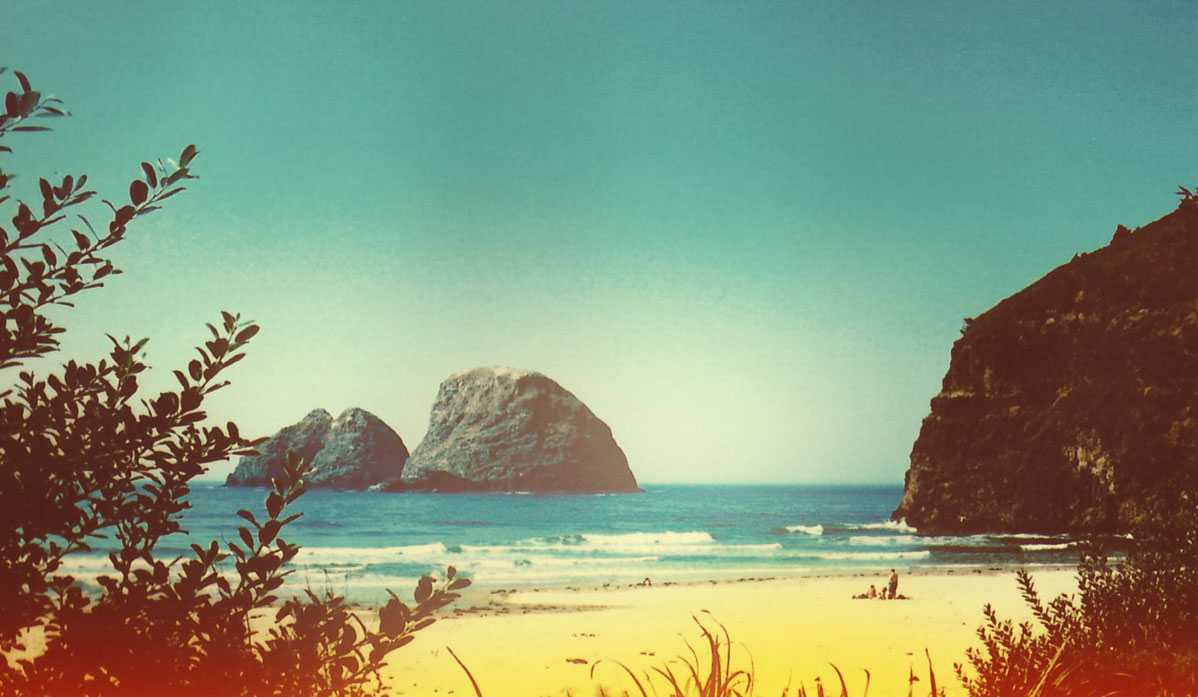
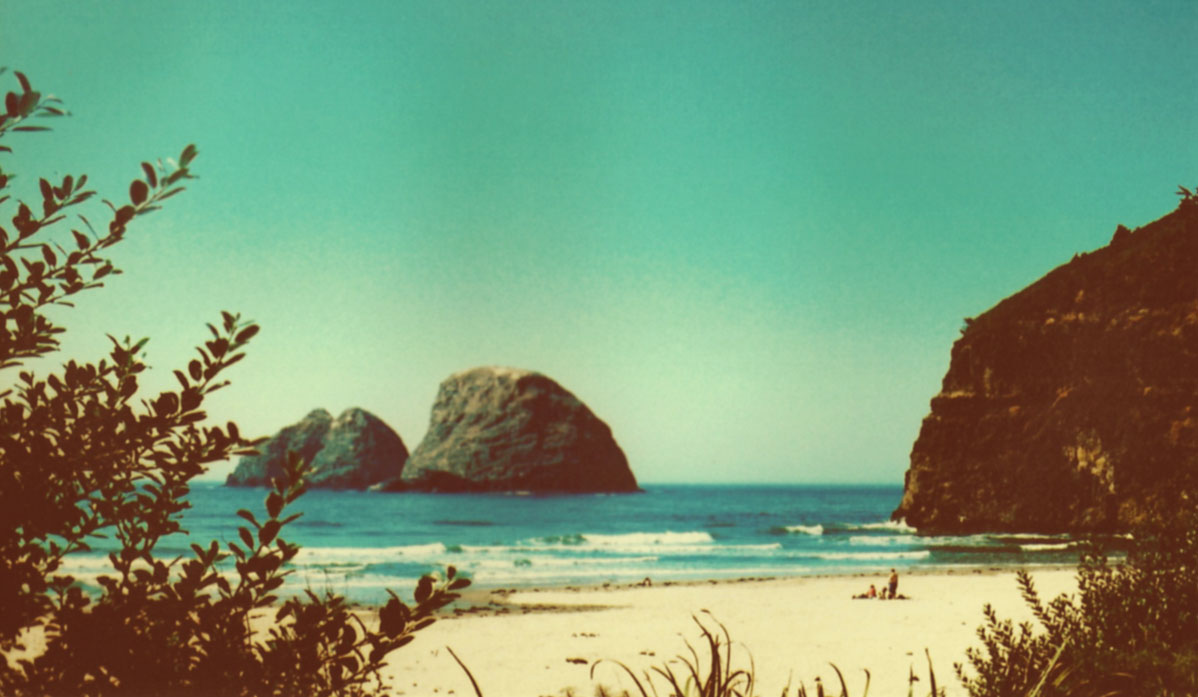
Updated Mobile Images

diff --git a/js/mobile.js b/js/mobile.js
@@ -9,8 +9,8 @@
     this.$tagline = $("#mobile h2");
     
     $("#phoneBG").backstretch("/images/mobile/phone-bg.jpg");
-    $("#tabletBG").backstretch("/images/mobile/beach-flip.jpg");
-    $("#desktopBG").backstretch("/images/mobile/beach.jpg");
+    $("#tabletBG").backstretch("/images/mobile/tablet-bg.jpg");
+    $("#desktopBG").backstretch("/images/mobile/desktop-bg.jpg");
 
     this.$switchButtons.on("click", $.proxy(this.selectDevice, this));
   };

diff --git a/css/mobile.css b/css/mobile.css
@@ -17,9 +17,9 @@
   z-index:100;
   top:80px;
   left:50%;
-  margin-left:-161px;
-  width:322px;
-  height:145px;
+  margin-left:-164px;
+  width:327px;
+  height:152px;
   background:url(/images/mobile/anytime.png) no-repeat;
   text-indent:-9999px;
   display:block;
